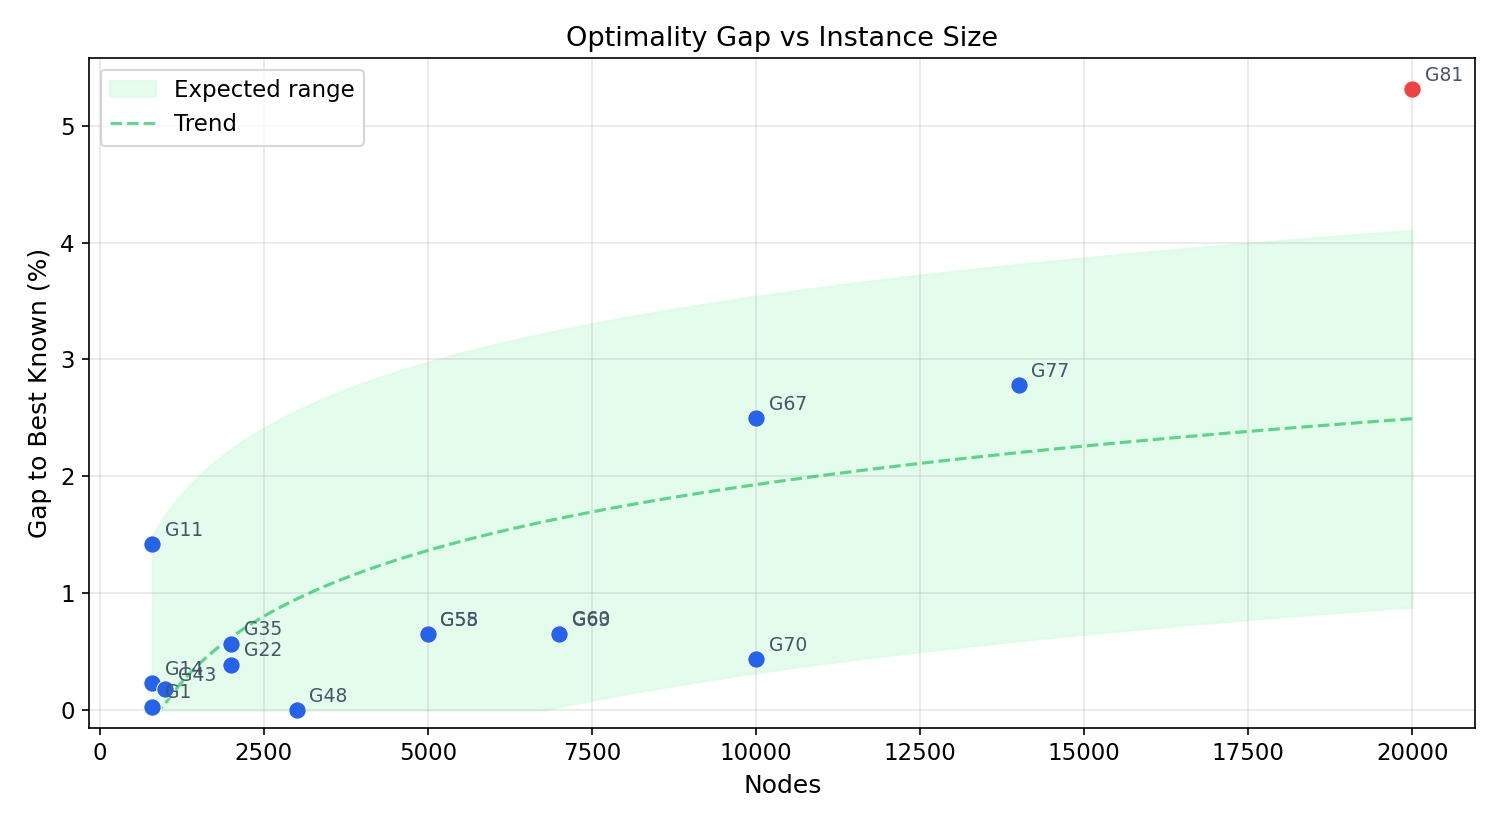
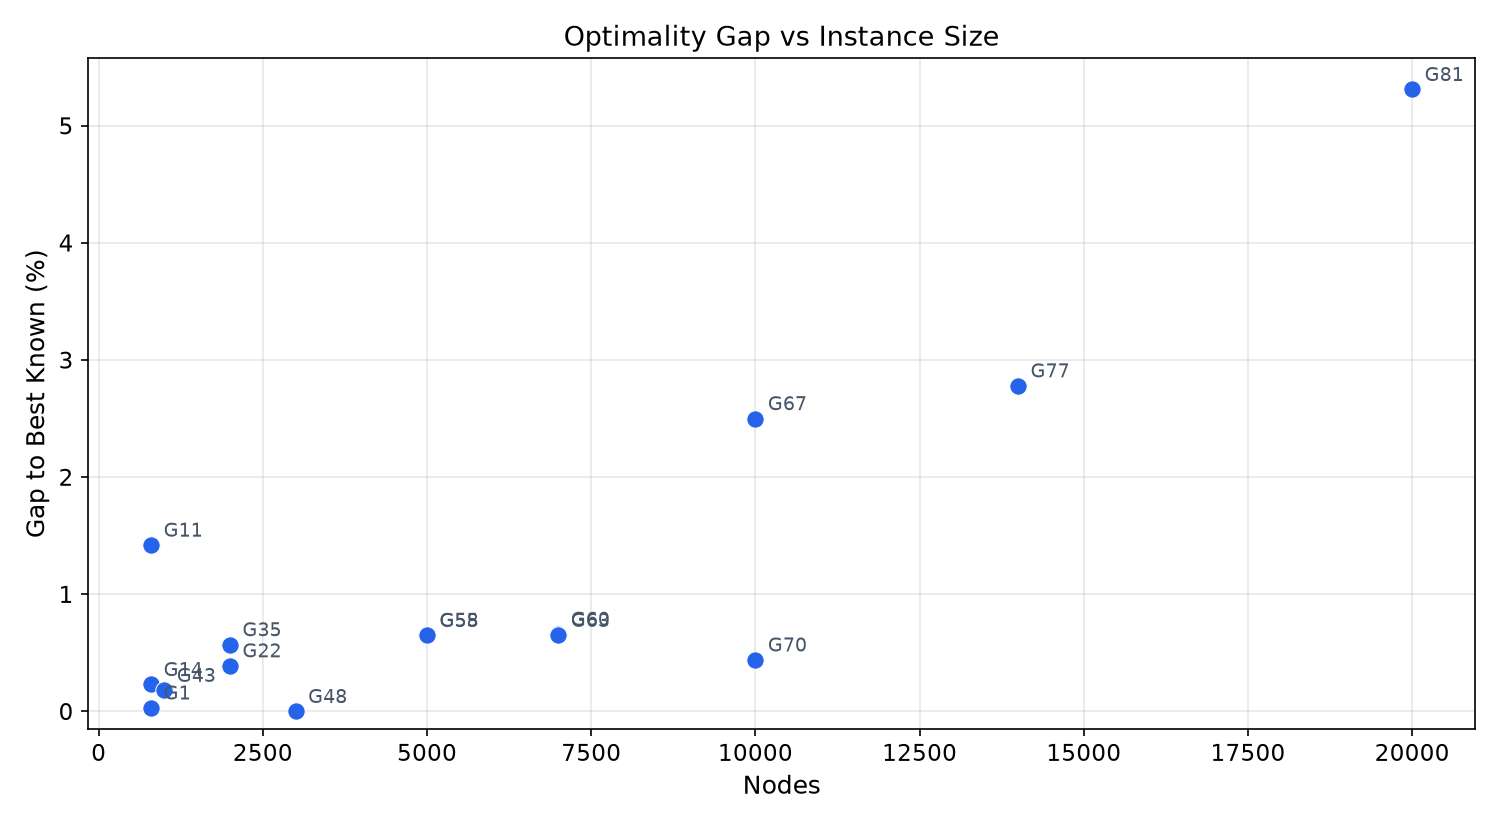
Drop the gap chart's self-fitted expected-range band
The band and trend were fitted to the very points drawn over them, so
they predicted nothing. The chart is regenerated from the README's
table, whose points it plots unchanged. Also drops the unused sorting
and offset variables and the section banners.

diff --git a/scripts/plot.py b/scripts/plot.py
@@ -7,9 +7,7 @@ from pathlib import Path
 
 import matplotlib.pyplot as plt
 import matplotlib.ticker as mticker
-import numpy as np
 
-# ── Style ──────────────────────────────────────────────────────────────────
 plt.rcParams.update({
     "figure.facecolor": "white",
     "axes.facecolor": "white",
@@ -21,12 +19,7 @@ plt.rcParams.update({
 })
 BLUE = "#2563eb"
 GRAY = "#94a3b8"
-RED = "#ef4444"
-GREEN = "#22c55e"
-GREEN_LIGHT = "#bbf7d0"
-GREEN_BAND = "#dcfce7"
 
-# ── Load data ──────────────────────────────────────────────────────────────
 csv_path = sys.argv[1] if len(sys.argv) > 1 else "results/gset.csv"
 out_dir = Path(sys.argv[2]) if len(sys.argv) > 2 else Path("charts")
 out_dir.mkdir(parents=True, exist_ok=True)
@@ -35,7 +28,6 @@ rows = []
 with open(csv_path) as f:
     for r in csv.DictReader(f):
         r["nodes"] = int(r["nodes"])
-        r["edges"] = int(r["edges"])
         r["time_s"] = float(r["time_s"])
         r["cut_value"] = float(r["cut_value"])
         r["best_known"] = int(r["best_known"])
@@ -44,13 +36,11 @@ with open(csv_path) as f:
 
 labels = [r["graph"] for r in rows]
 nodes = [r["nodes"] for r in rows]
-edges = [r["edges"] for r in rows]
 cuts = [r["cut_value"] for r in rows]
 bests = [r["best_known"] for r in rows]
 gaps = [r["gap_pct"] for r in rows]
 times = [r["time_s"] for r in rows]
 
-# ── Chart 1: Cut value comparison (grouped bar) ───────────────────────────
 fig, ax = plt.subplots(figsize=(12, 5))
 x = range(len(labels))
 w = 0.35
@@ -66,61 +56,19 @@ fig.tight_layout()
 fig.savefig(out_dir / "cut_comparison.png", dpi=150)
 print(f"Saved {out_dir / 'cut_comparison.png'}")
 
-# ── Chart 2: Gap with expected trend band ─────────────────────────────────
-# Expected trend: gap grows roughly with sqrt(n) / density.
-# Fit a simple model to define the "expected" band.
-nodes_arr = np.array(nodes, dtype=float)
-edges_arr = np.array(edges, dtype=float)
-gaps_arr = np.array(gaps)
-
-# Sort by node count for the trend line.
-sort_idx = np.argsort(nodes_arr)
-nodes_sorted = nodes_arr[sort_idx]
-gaps_sorted = gaps_arr[sort_idx]
-
-# Fit log-linear trend: gap ~ a * log(n) + b
-log_n = np.log(nodes_arr)
-coeffs = np.polyfit(log_n, gaps_arr, 1)
-trend_fn = np.poly1d(coeffs)
-
-# Generate smooth trend line.
-n_smooth = np.linspace(min(nodes), max(nodes), 200)
-trend_smooth = trend_fn(np.log(n_smooth))
-
-# Band width: use residual std dev, with a minimum.
-residuals = gaps_arr - trend_fn(log_n)
-band_width = max(np.std(residuals), 0.3)
-
 fig, ax = plt.subplots(figsize=(10, 5.5))
-
-# Draw expected band.
-ax.fill_between(n_smooth,
-                np.maximum(trend_smooth - 1.5 * band_width, 0),
-                trend_smooth + 1.5 * band_width,
-                color=GREEN_BAND, alpha=0.8, label="Expected range", zorder=1)
-ax.plot(n_smooth, np.maximum(trend_smooth, 0),
-        color=GREEN, linewidth=1.5, linestyle="--", alpha=0.7, label="Trend", zorder=2)
-
-# Plot actual gaps.
-for i in range(len(rows)):
-    in_band = abs(gaps[i] - trend_fn(np.log(nodes[i]))) <= 1.5 * band_width
-    color = BLUE if in_band else RED
-    ax.scatter(nodes[i], gaps[i], color=color, s=70, zorder=4, edgecolors="white", linewidths=0.5)
-    offset_y = 0.12 if gaps[i] >= trend_fn(np.log(nodes[i])) else -0.25
-    ax.annotate(labels[i], (nodes[i], gaps[i]),
-                textcoords="offset points", xytext=(6, 4),
+ax.scatter(nodes, gaps, color=BLUE, s=70, zorder=4, edgecolors="white", linewidths=0.5)
+for i, lbl in enumerate(labels):
+    ax.annotate(lbl, (nodes[i], gaps[i]), textcoords="offset points", xytext=(6, 4),
                 fontsize=9, color="#475569", zorder=5)
-
 ax.set_xlabel("Nodes")
 ax.set_ylabel("Gap to Best Known (%)")
 ax.set_title("Optimality Gap vs Instance Size")
-ax.legend(loc="upper left")
 ax.set_ylim(bottom=-0.15)
 fig.tight_layout()
 fig.savefig(out_dir / "gap_to_best.png", dpi=150)
 print(f"Saved {out_dir / 'gap_to_best.png'}")
 
-# ── Chart 3: Scaling — time vs nodes ─────────────────────────────────────
 fig, ax = plt.subplots(figsize=(8, 5))
 ax.scatter(nodes, times, s=80, color=BLUE, zorder=3)
 for i, lbl in enumerate(labels):
